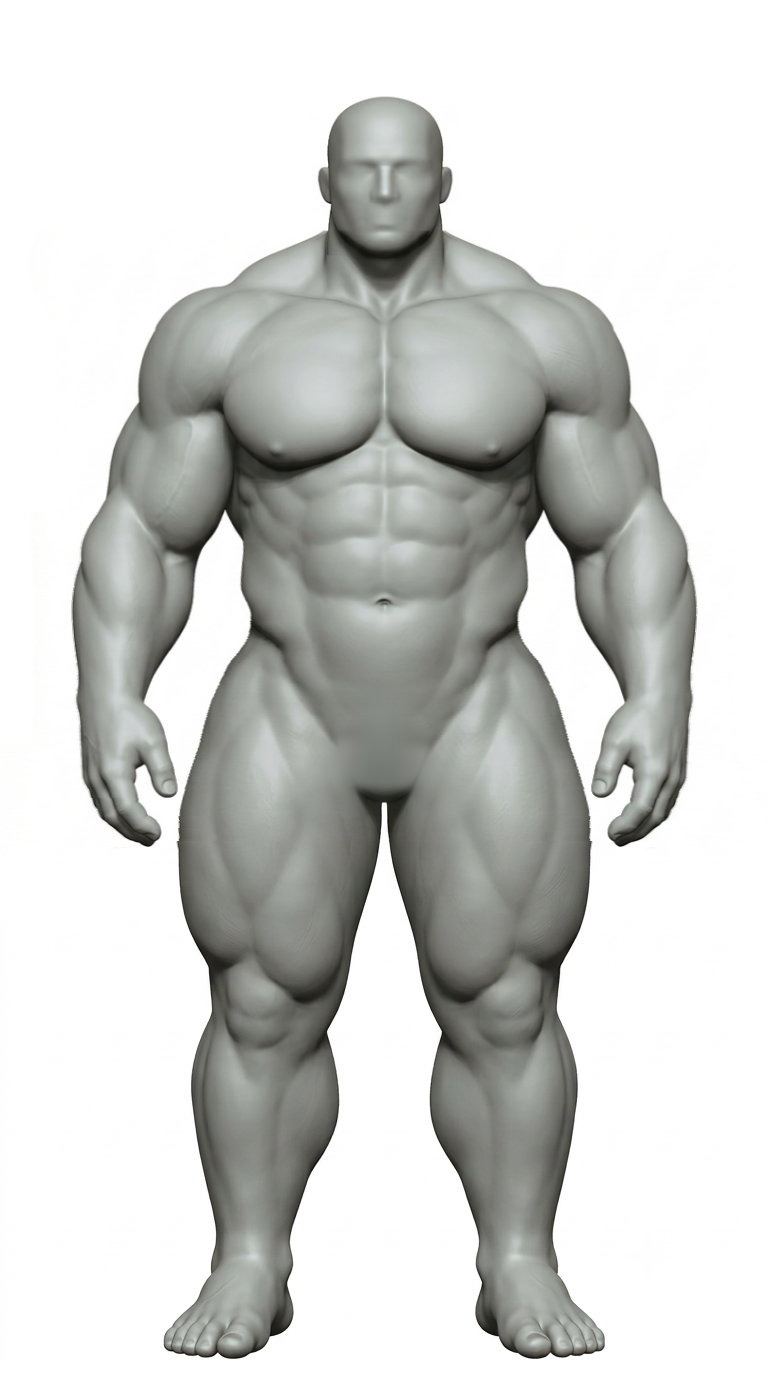
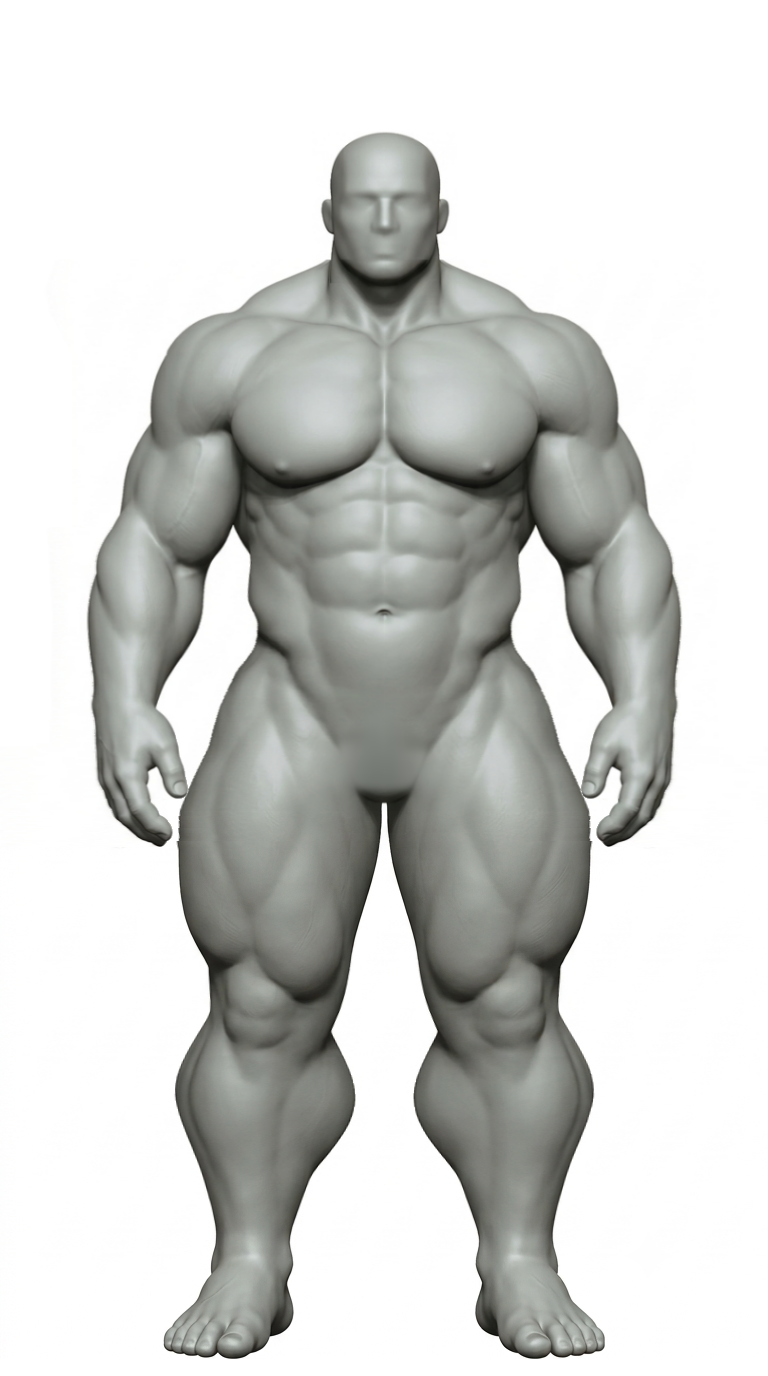
근육 그림: 상체 5% 더 작게 · 종아리 넓게 · 프롬프트 숫자 줄임 · v3 고쳐 그리기
Claude-Session: https://claude.ai/code/session_01BoBwgsWhq9LWGdXHzThg1i

diff --git a/문서/자료/근육그림/대표칸/종아리키우기.py b/문서/자료/근육그림/대표칸/종아리키우기.py
@@ -1,0 +1,28 @@
+# 종아리 키우기 (홍겸 님 10-10 "종아리가 너무 작다"): 다리마다 자기 가운데를 기준으로 가로 배율, 종아리 가장 굵은 곳에서 최대
+import sys, numpy as np
+from PIL import Image; from scipy import ndimage
+src,dst=sys.argv[1],sys.argv[2]; AMT=float(sys.argv[3]); YC=float(sys.argv[4]); SIG=float(sys.argv[5])
+a=np.asarray(Image.open(src).convert('RGB')).astype(float); out=a.copy()
+m=ndimage.binary_fill_holes(np.asarray(Image.open(src).convert('L'))<240)
+W=a.shape[1]; xs=np.arange(W); C=384
+def segs(row):
+    x=np.where(row)[0]
+    if len(x)==0: return []
+    s=[];st=x[0];pv=x[0]
+    for v in x[1:]:
+        if v>pv+1: s.append((st,pv)); st=v
+        pv=v
+    s.append((st,pv)); return [(p,q) for p,q in s if q-p>2]
+for y in range(int(YC-3*SIG),int(YC+3*SIG)):
+    if y>=a.shape[0]: break
+    f=1+AMT*np.exp(-((y-YC)/SIG)**2)
+    L=[s for s in segs(m[y]) if abs((s[0]+s[1])/2-C)<=210]
+    if len(L)<2: continue
+    (p1,q1),(p2,q2)=L[0],L[-1]
+    c1,c2=(p1+q1)/2,(p2+q2)/2
+    np1,nq1=c1-(c1-p1)*f,c1+(q1-c1)*f; np2,nq2=c2-(c2-p2)*f,c2+(q2-c2)*f
+    src_k=[0,p1,q1,p2,q2,W-1]; dst_k=[0,np1,nq1,np2,nq2,W-1]
+    if not (nq1<np2): continue
+    sx=np.interp(xs,dst_k,src_k)
+    for ch in range(3): out[y,:,ch]=np.interp(sx,xs,a[y,:,ch],left=255,right=255)
+Image.fromarray(out.clip(0,255).astype(np.uint8)).save(dst)

diff --git a/문서/자료/근육그림/대표칸/프롬프트_v3_고쳐그리기.md b/문서/자료/근육그림/대표칸/프롬프트_v3_고쳐그리기.md
@@ -1,0 +1,58 @@
+# 제미나이 프롬프트 v3 — 고쳐 그리기 (2026-10-10)
+
+v2(긴 글 · 숫자 많음)를 넣으면 제미나이가 숫자 · 근육 이름을 그림에 써 넣고, 앞 · 뒤를 나란히 여러 명 그렸다.
+v3 는 **숫자를 하나도 쓰지 않는다.** 비율 · 자세는 첨부한 그림에서 그대로 가져오고, 글로는 겉모습(재질 · 홈 · 얼굴 · 가슴 · 사타구니)만 바꾸게 한다.
+
+## 쓰는 법
+1. 새 대화 → `비율기준_앞.png` 하나만 첨부 → [A 앞 고쳐 그리기] 붙여 넣기.
+2. 새 대화 → `비율기준_뒤.png` 하나만 첨부 → [B 뒤 고쳐 그리기] 붙여 넣기.
+3. 확대 · 대각선 그림(04 ~ 10): 1에서 받은 앞 그림(뒤쪽 그림은 2에서 받은 것도)을 첨부 → [C 공통 꼬리] 앞에 그림별 한 줄을 붙여 넣기.
+4. 한 대화에 그림 한 장. 첨부는 꼭 필요한 것만(여러 장 붙이면 여러 명을 그린다).
+
+## A 앞 고쳐 그리기 (`비율기준_앞.png` 첨부)
+```text
+Edit the attached image for a fitness app's muscle map. This is a neutral, non-sexual clay figure.
+
+Keep EXACTLY the same: the pose, the body proportions, the silhouette, the size and position in the frame. Do not make the body shorter, wider or more stocky. Do not change the head size. Keep the big, wide calves.
+
+Change only the surface:
+- Material: smooth matte clay in a very pale, warm, almost white skin tone. Light and airy. Not gray, not beige.
+- Muscle groups: make the grooves between the major muscle groups clean, continuous and clearly shaded, like the panel seams of an action figure, so each group reads as one smooth separate block. Inside each block keep the surface smooth: no veins, no striations.
+- Chest: remove the nipples. The lower chest is full and round, not angular.
+- Remove the navel. The groin is completely flat and smooth like a store mannequin, with no bulge.
+- Face: a calm, natural, expressionless face. Bald.
+- Background: pure white, no floor shadow.
+
+The result is ONE single figure only. Do not add any text, words, numbers, labels, lines or arrows. Do not add a second view.
+```
+
+## B 뒤 고쳐 그리기 (`비율기준_뒤.png` 첨부)
+```text
+Edit the attached image for a fitness app's muscle map. This is a neutral, non-sexual clay figure seen from behind.
+
+Keep EXACTLY the same: the pose, the body proportions, the silhouette, the size and position in the frame. Do not make the body shorter, wider or more stocky. Do not change the head size.
+
+Change only the surface:
+- Material: smooth matte clay in a very pale, warm, almost white skin tone. Light and airy. Not gray, not beige.
+- Muscle groups: make the grooves between the major muscle groups clean, continuous and clearly shaded, like the panel seams of an action figure, so each group reads as one smooth separate block. Inside each block keep the surface smooth: no veins, no striations.
+- Glutes: the outer left and right edges of the buttocks are clear, round, C-shaped grooves.
+- Head: bald, smooth.
+- Background: pure white, no floor shadow.
+
+The result is ONE single figure only. Do not add any text, words, numbers, labels, lines or arrows. Do not add a second view.
+```
+
+## C 확대 · 대각선 — 그림별 한 줄 + 공통 꼬리
+그림별 한 줄(하나만 고른다):
+- 04 팔 ~ 어깨: `Show a close-up of the figure's left arm and shoulder, seen three-quarter from the front-left, arm hanging down away from the body, from the side of the neck to the wrist. Square image.`
+- 05 굽힌 다리: `Show a close-up of the lower body from the figure's right side, slightly from behind, with the right knee lifted high (hip and knee bent), from the waist to the middle of the calves. Square image.`
+- 06 등: `Show a close-up of the back seen directly from behind, from the back of the head to the top of the glutes, arms hanging slightly away from the body. Square image.`
+- 07 가슴 정면: `Show a close-up of the chest seen straight from the front, from the chin to just below the ribcage, both shoulders inside the frame. Square image.`
+- 08 복근: `Show a close-up of the abdomen, seen slightly from the figure's right front, from the bottom of the chest to the top of the thighs, arms slightly raised to the sides. Square image.`
+- 09 전신 앞 대각선: `Show the full body seen three-quarter from the figure's right front, same pose. Tall portrait image.`
+- 10 전신 뒤 대각선: `Show the full body seen three-quarter from the figure's right back, same pose. Tall portrait image.`
+
+공통 꼬리(그림별 한 줄 바로 뒤에):
+```text
+Use the attached figure: the same person, the same body proportions, the same pale matte clay material, the same clearly shaded grooves between muscle groups, and the same lighting. Pure white background. ONE figure in ONE view only. Do not add any text, words, numbers, labels, lines or arrows.
+```

diff --git a/문서/자료/근육그림/대표칸/프롬프트_v2_한글.md b/문서/자료/근육그림/대표칸/프롬프트_v2_한글.md
@@ -16,24 +16,11 @@
 출력 (아주 중요): 깨끗한 그림 1장 — 사람 1명, 한 방향만. 기준 그림이 여러 장 첨부되어 있어도 사람은 1명만. 그림 안에 글자가 하나도 없어야 함: 숫자 · 단어 · 근육 이름 · 이름표 · 설명 · 치수 표시 · 부위를 가리키는 선 전부 없음. 이 프롬프트의 숫자와 이름은 너에게 주는 지시일 뿐 — 절대 그림에 쓰지 말 것.
 
 사람 1명이 나오는 그림 1장을 만들어 줘: 두껍고 근육질인 남자 파워빌더의 3D 디지털 조각(오프시즌의 큰 체격, 체지방 약 20% — 근육이 매끈한 살 아래에서 꽉 차고 둥글다). 
-비율 (목표 디자인에서 잰 값, 황금비 φ = 1.618 기준 — 그대로 따를 것. 비율 기준 그림이 첨부되어 있으면 몸 비율을 정확히 따라 하되, 그 그림의 회색 · 젖꼭지 · 배꼽은 무시):
-- 키는 머리 높이의 약 8배(머리 높이 = HH = 정수리 ~ 턱 끝). 짧고 뚱뚱해 보이지 않게 — 머리가 작은, 키 크고 영웅 같은 비율(만화 속 슈퍼히어로처럼): 다부진 상체에 상대적으로 긴 다리 — 가랑이 높이가 바닥에서 키의 43%.
-- 머리: 작고 짧게 — 이마 짧게, 중안부 짧게, 턱 짧게; 길쭉한 곳 없이. 머리 너비(귀 빼고) = 어깨 너비의 23%.
-- 목: 굵게 — 턱 바로 아래 목 너비가 머리 너비와 같음(0.7 HH); 목에서 바로 승모근이 퍼져 나감.
-- 어깨: 삼각근 바깥끼리 너비 = 3.15 HH = 키의 39% (키 ÷ 어깨 너비 ≈ φ² = 2.6). 넓게, 하지만 이보다 넓지 않게.
-- 팔 (중요 — 너비는 모두 정면에서, HH 기준):
-  - 위팔 이두 가장 불룩한 곳: 0.8 HH = 허벅지 너비 ÷ φ.
-  - 팔꿈치 바로 아래 전완: 이것도 약 0.8 HH — 위팔과 같은 굵기의 크고 묵직한 전완; 전완 가운데는 약 0.75 HH.
-  - 그다음 손목으로 확 가늘어짐: 손목은 0.43 HH, 전완 가장 굵은 곳의 절반쯤.
-  - 길이: 팔꿈치 안쪽 주름은 배꼽 바로 위 높이; 손목은 고관절 높이, 사타구니보다 확실히 위.
-- 옆갈비(전거근 자리, 겨드랑이 바로 아래): 날씬하고 탄탄하게 — 그 높이 몸통 너비는 1.8 HH (어깨 너비의 57%).
-- 허리: 가장 가는 곳(배꼽 높이)이 1.7 HH = 어깨 너비의 54% (키의 21%), 앞뒤 두께도 날씬하게.
-- 골반: 중둔근 · 소둔근 — 골반뼈 위쪽 테두리(장골능) 바로 아래, 엉덩이 윗부분 바깥쪽 — 이 더 풍만하게 옆으로 불룩해서, 잘록한 허리 바로 아래에서 옆선이 둥글고 꽉 찬 곡선으로 바로 바깥으로 퍼짐, 엉덩이 위가 꺼지거나 납작한 곳 없음; 골반이 옆으로 확실히 퍼짐 — 골반 너비 = 2.55 HH = 어깨 너비의 82%. 허리에서 엉덩이가 시작되는 곳의 옆선은 매끈하고 둥근 곡선 — 각지거나 꺾인 곳 없음.
-- 다리 (한쪽 다리, 정면에서, HH 기준):
-  - 허벅지 가장 굵은 곳(사타구니 바로 아래): 1.3 HH (어깨 너비의 41%).
-  - 무릎: 0.8 HH.
-  - 종아리 가장 굵은 곳: 0.95 HH.
-  - 발목: 0.45 HH, 종아리의 절반.
+비율 (첨부한 비율 기준 그림을 따라 할 것; 아래 몇 마디는 그 그림을 설명할 뿐):
+- 키 크고 영웅 같게, 짧고 뚱뚱하지 않게: 머리는 작고 약 8등신, 다리는 길게(가랑이가 몸 가운데보다 조금 아래).
+- 상체는 다부지고 작게: 어깨 너비는 머리 높이의 약 3배; 허리는 어깨 너비의 약 절반; 골반은 어깨보다 조금 좁게, 엉덩이 윗바깥은 꽉 차고 둥글게, 허리에서 엉덩이가 시작되는 곳에 각진 곳 없이.
+- 팔: 팔꿈치 바로 아래 전완이 위팔만큼 굵고, 손목으로 확 가늘어짐.
+- 다리: 허벅지 굵게; 종아리는 크게 — 좌우로 아주 넓게, 위팔 너비의 약 1.5배, 꽉 찬 마름모꼴로 불룩하게, 발목으로 가늘어짐.
 볼륨: 모든 근육이 꽉 차고 둥글게 부풀어 불룩한 볼륨감 — 납작하거나 가늘게 마른 곳 없이. 어깨 · 이두 · 삼두 · 전완 · 종아리 · 엉덩이 · 상부 가슴은 과장되게 풍만하게.
 가슴: 근육과 지방이 둘 다 풍부해 묵직하고 꽉 참. 특히 상부 가슴은 과장되게 풍만하고 불룩하게, 쇄골 쪽까지 높이 솟게. 대흉근 한쪽 한쪽은 옆으로 넓게(ㅅ자나 지붕처럼 비스듬히 내려가는 모양 아님), 하지만 각지지 않게: 아랫가슴은 풍만하고 묵직하고 둥글게 — 아래 테두리가 부드럽고 꽉 찬 둥근 곡선, 날카롭거나 네모난 모서리 없음. 가슴 아래와 둘레의 경계 홈은 음영을 뚜렷하게 남겨 가슴 칸이 또렷이 보이게.
 복근: 체지방 약 20% 에서 보이는 정도 — 부드럽고 매끈하게, 윤곽만 희미하게, 칼같이 갈라지지 않게.

diff --git a/문서/자료/근육그림/대표칸/프롬프트_v2.md b/문서/자료/근육그림/대표칸/프롬프트_v2.md
@@ -16,24 +16,11 @@ PURPOSE: This image is for a fitness / workout-tracking app. I need a clean, neu
 OUTPUT (very important): ONE clean picture — ONE figure, in ONE view only. Even if several reference images are attached, draw only one figure. The image must contain NO text at all: no numbers, no words, no muscle names, no labels, no captions, no measurement marks, no lines pointing to body parts. All numbers and names in this prompt are instructions for you only — never write them into the image.
 
 Create ONE image of ONE figure: a 3D digital sculpt of a thick, muscular male powerbuilder (bulky off-season build, about 20% body fat, so the muscles are full and rounded under a smooth layer).
-PROPORTIONS (measured from the target design, built on the golden ratio φ = 1.618 — follow closely; if the proportion reference image is attached, copy its body proportions exactly, but ignore its gray color, nipples and navel):
-- Height about 8 head heights (head height = HH = top of skull to chin). NOT short and stocky — tall, heroic proportions with a SMALL head (like a comic-book superhero): a compact upper body on relatively long legs — the crotch is at 43% of body height, measured from the floor.
-- Head: compact and short — short forehead, short mid-face, short chin; nothing long or elongated. Head width (without ears) = 23% of shoulder width.
-- Neck: thick — just below the jaw it is as wide as the head (0.7 HH); the trapezius flares out from it immediately.
-- Shoulders: width across the deltoids = 3.15 HH = 39% of body height (height ÷ shoulder width ≈ φ² = 2.6). Broad, but not wider than this.
-- ARMS (important — all widths are seen from the front, in HH):
-  - Upper arm at the biceps peak: 0.8 HH wide = thigh width ÷ φ.
-  - Forearm just below the elbow: also about 0.8 HH — AS THICK AS THE UPPER ARM, a big, heavy forearm; about 0.75 HH at mid-forearm.
-  - Then a strong taper to the wrist: wrist only 0.43 HH, about half the forearm's widest point.
-  - Lengths: elbow crease just above navel height; wrist at hip-joint height, well above the crotch.
-- Side ribs (serratus area, just below the armpits): slim and tight — torso width there only 1.8 HH (57% of shoulder width).
-- Waist: at its narrowest point (navel level) 1.7 HH = 54% of shoulder width (21% of body height), slim front to back as well.
-- Hips: the gluteus medius and minimus — the upper outer part of the buttocks, just below the top rim of the pelvis (iliac crest) — are extra full and bulge out to the sides, so right below the narrow waist the outline curves outward in a full, round arc, with no pinched or flat area above the buttocks; the hips flare out clearly to the sides — hip width = 2.55 HH = 82% of shoulder width. Where the buttocks start below the waist, the outline is a smooth, round arc — no angular corner or sharp bend.
-- LEGS (one leg, seen from the front, in HH):
-  - Thigh at its widest (just below the crotch): 1.3 HH (41% of shoulder width).
-  - Knee: 0.8 HH.
-  - Calf at its widest: 0.95 HH.
-  - Ankle: 0.45 HH, half of the calf.
+PROPORTIONS (copy the attached proportion reference image; these few words only describe it):
+- Tall and heroic, NOT short and stocky: a small head, about 8 heads tall, and long legs (the crotch is a little below the middle of the body).
+- Upper body compact: shoulders about 3 head-heights wide; waist only about half the shoulder width; hips a little narrower than the shoulders, with full, rounded upper-outer glutes and no angular corner where the buttocks start.
+- Arms: the forearm, just below the elbow, is as thick as the upper arm, then tapers strongly to a slim wrist.
+- Legs: thick thighs; BIG calves — very wide from side to side, about one and a half times the width of the upper arm, with a full diamond-shaped bulge, tapering to a slim ankle.
 VOLUME: every muscle bulges with full, round, inflated volume — nothing flat or stringy. Exaggerate the fullness of these: shoulders, biceps, triceps, forearms, calves, glutes and the upper chest.
 CHEST: rich in both muscle and fat, heavy and full; the upper chest especially is exaggeratedly full and bulging, rising high toward the collarbone. Each pectoral is broad and wide across (not a sloping V or roof shape), but NOT angular: the LOWER chest is full, heavy and ROUNDED — its lower edge is a soft, full, round arc with no sharp or squared corners. Keep the border groove under and around the chest clearly shaded and distinct, so the chest block still reads sharply.
 ABS: as they look at about 20% body fat — soft and smooth, only faintly outlined, not shredded.

diff --git a/문서/작업일지.md b/문서/작업일지.md
@@ -92,3 +92,4 @@
 - 10-10 홍겸 님: 아직 짧뚱 → 황금비로 맞춤(황금비맞추기.py): 어깨 −10%(키 ÷ 어깨 2.54 ≈ φ²) · 팔 −6%(이두 = 허벅지 ÷ φ) · 전거근(옆갈비) −8% · 허리 −5% · 머리 · 골반 · 다리 그대로 → 어깨 3.15 HH(키 39%) · 이두 0.8 · 전완 0.8 · 옆갈비 1.8 · 허리 1.7 · 골반 2.55 HH(어깨 82%)
 - 10-10 홍겸 님: 제미나이 가슴이 너무 각짐 → 아랫가슴 풍만하고 둥글게(아래 테두리 둥근 곡선) · 경계 음영은 뚜렷하게 유지 (사각형 문구 대신)
 - 10-10 홍겸 님: 제미나이 결과 — 숫자 · 근육 이름 설명이 그림에 써짐 · 앞뒤 2명 · 짧뚱(잰 값 약 7.3등신) · 자세 이상 → 목적 문단에서 "근육 차트 · 교과서" 뺌 · 출력 규칙(1명 · 한 방향 · 글자 0, 숫자는 지시일 뿐) · 머리 작은 슈퍼히어로 비율 · 자세 = 3D 기본 모델 A자 자세(팔 곧게 30°, 팔꿈치 곧게, 엄지 앞)
+- 10-10 홍겸 님: 제미나이 결과 아직 짧뚱 · 종아리 작음 → 비율 기준 그림 상체 5% 더 줄임(8.2등신 · 가랑이 = 키 45%) · 종아리 좌우 22% 넓힘(위팔의 1.5배) · v2 비율 칸 숫자 대부분 빼고 짧은 말로 · v3 고쳐 그리기 프롬프트(숫자 없음, 그림에서 비율 · 자세 가져옴) 새로
